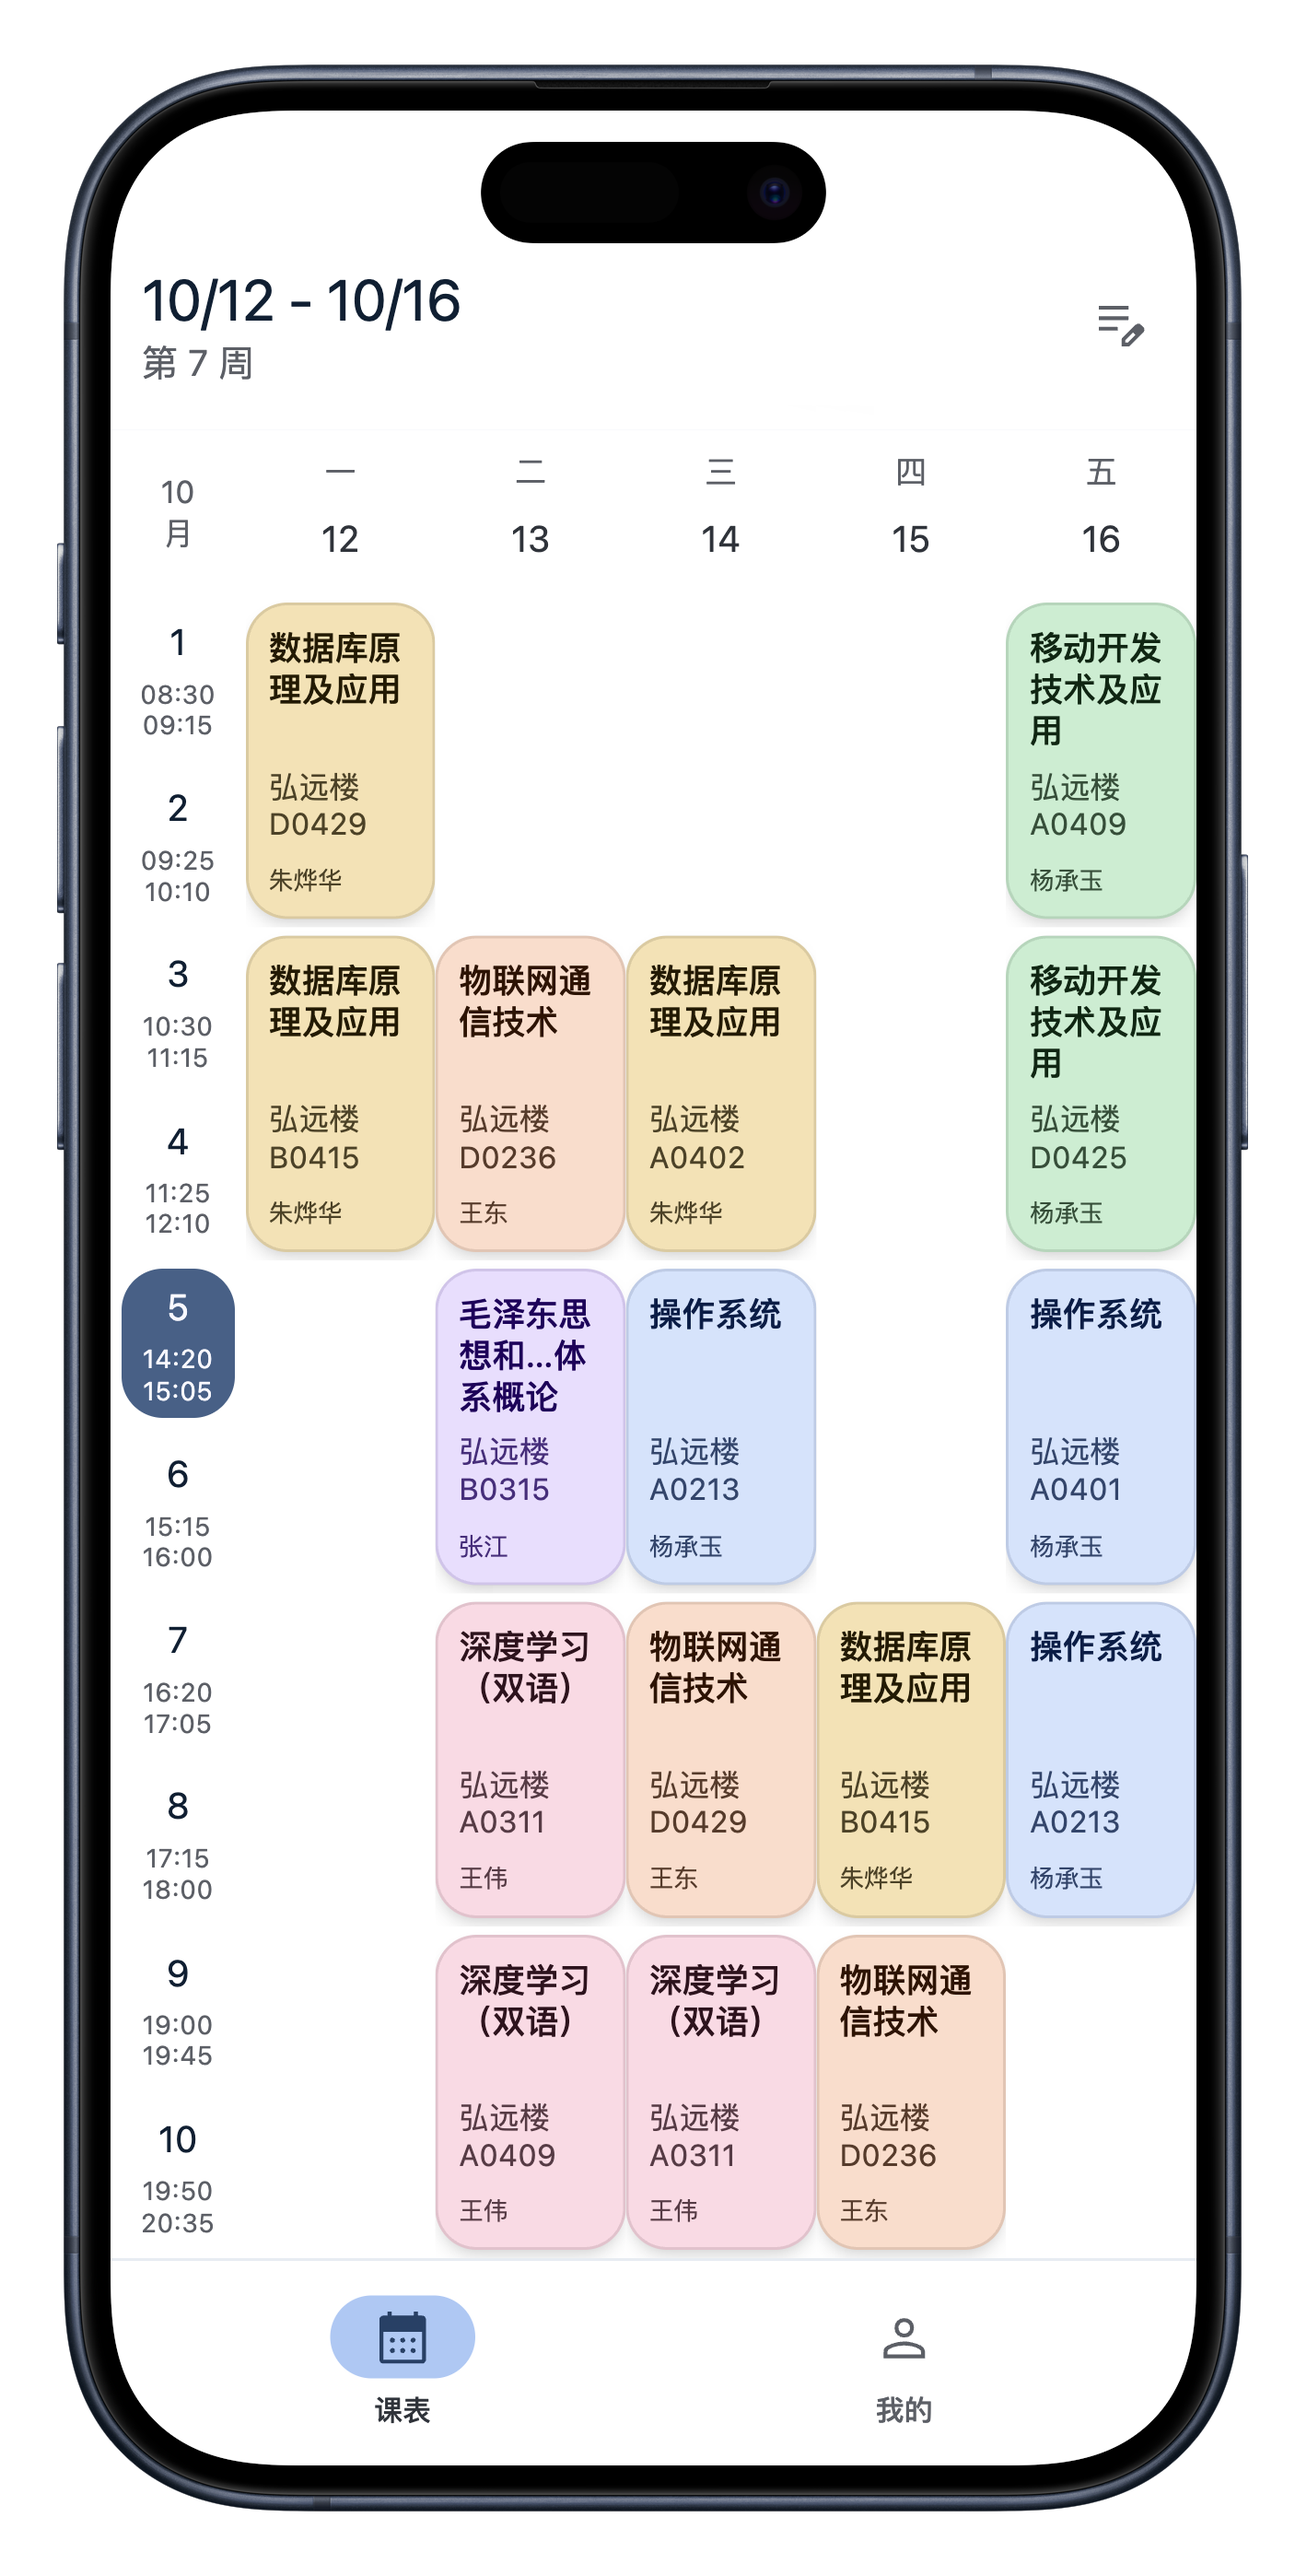
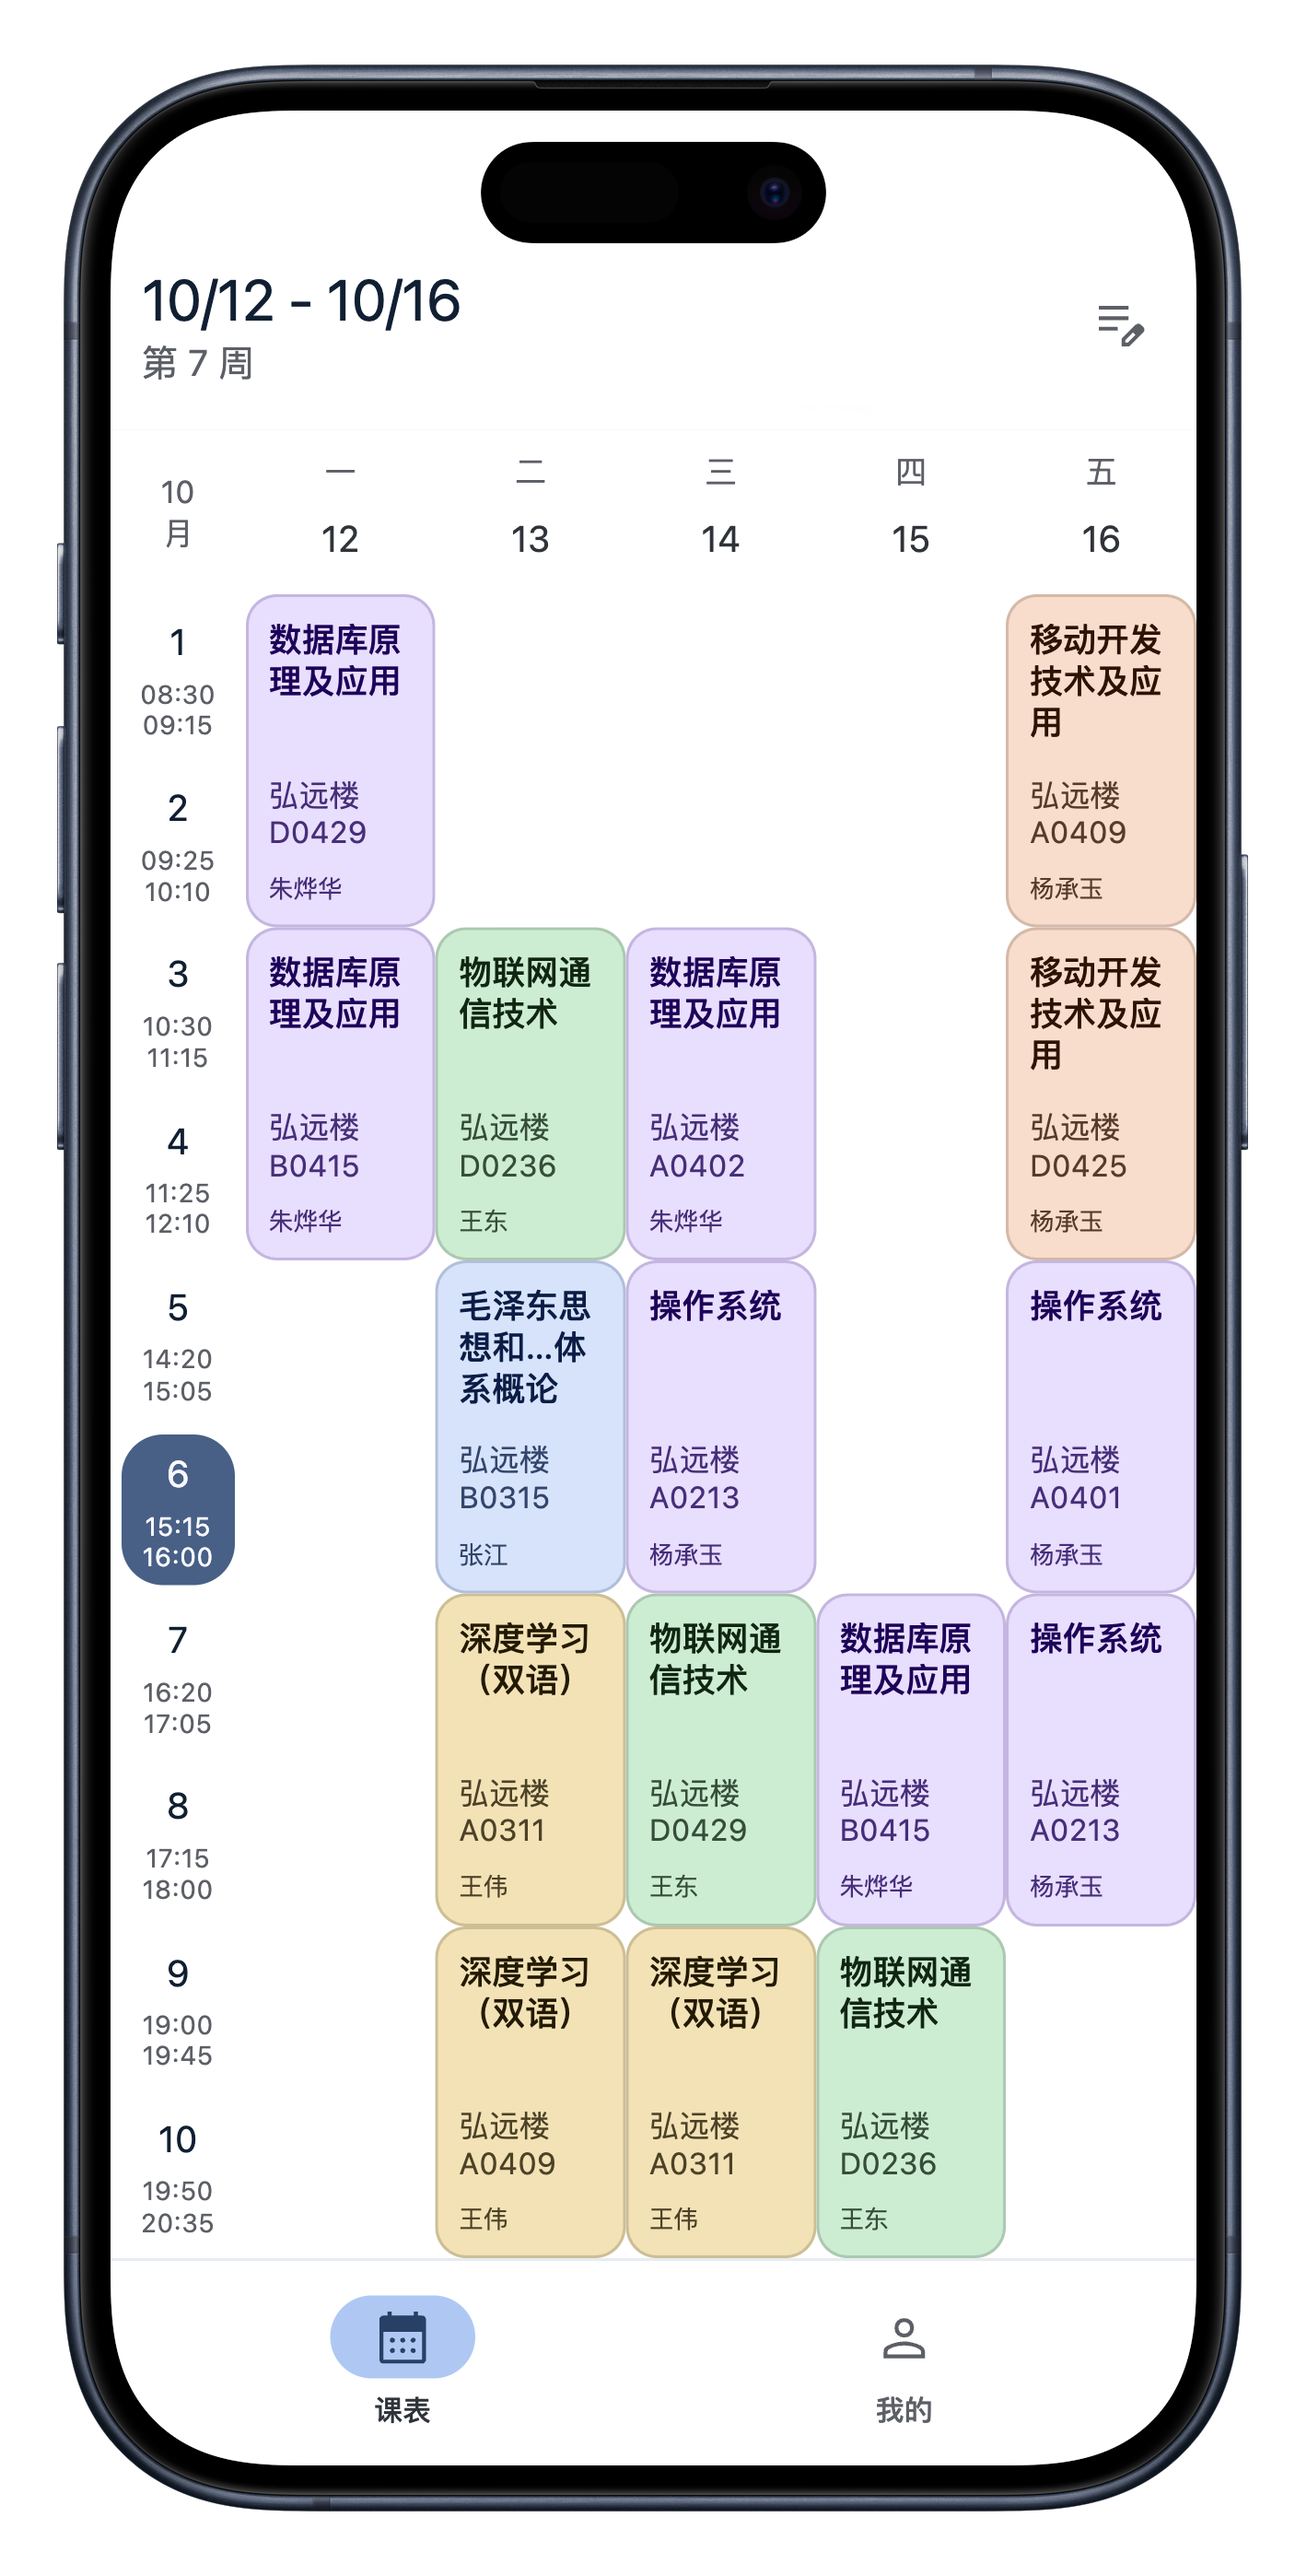
🔖 发布 v0.1.4 版本

Changed region(s): [[0.186, 0.2178, 0.9302, 0.9024], [0.7442, 0.2178, 0.9302, 0.529], [0.093, 0.4667, 0.186, 0.6223]]

diff --git a/src/lib/content/releases/entries/v0.1.4.md b/src/lib/content/releases/entries/v0.1.4.md
@@ -1,0 +1,7 @@
+---
+name: Chronos 0.1.4
+publishedAt: 2026-08-16
+---
+
+- 调整了课程胶囊与部分菜单样式
+- 新增「课程胶囊样式」功能，可选择不同的圆角样式
